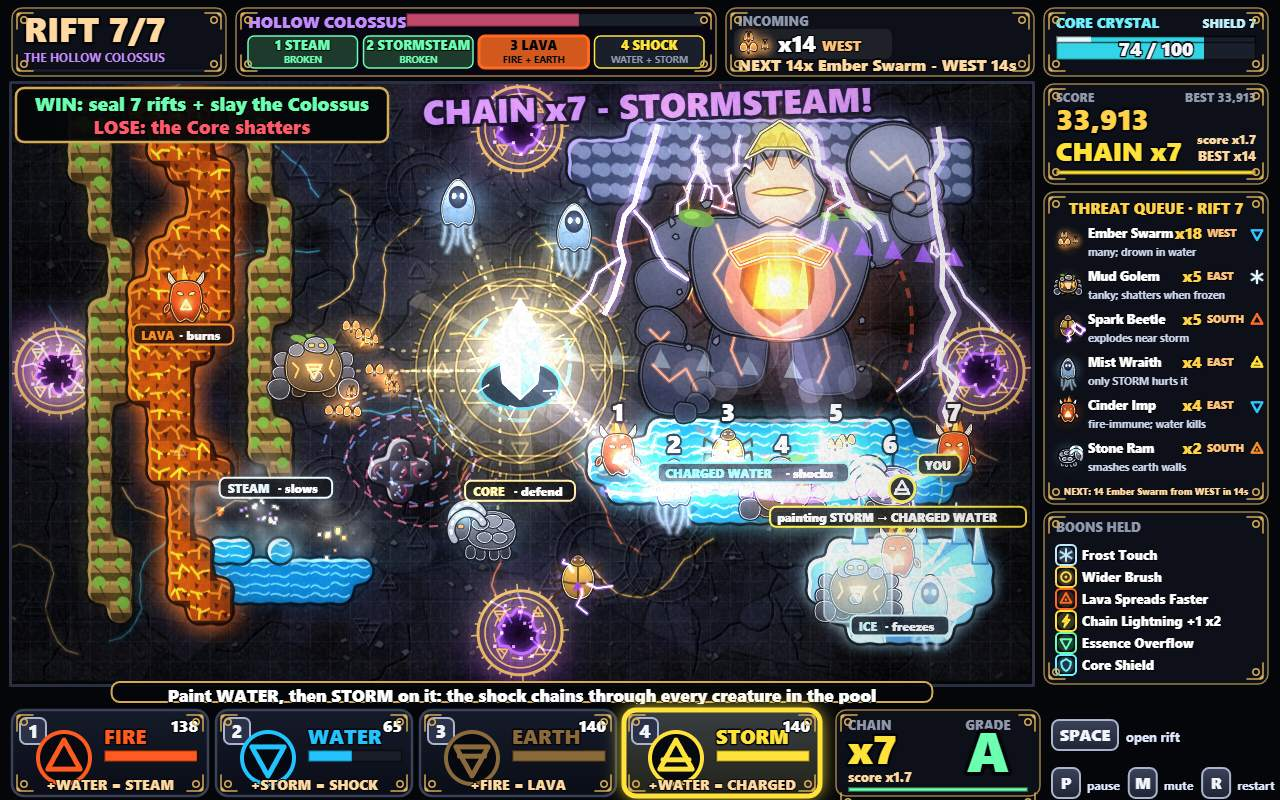
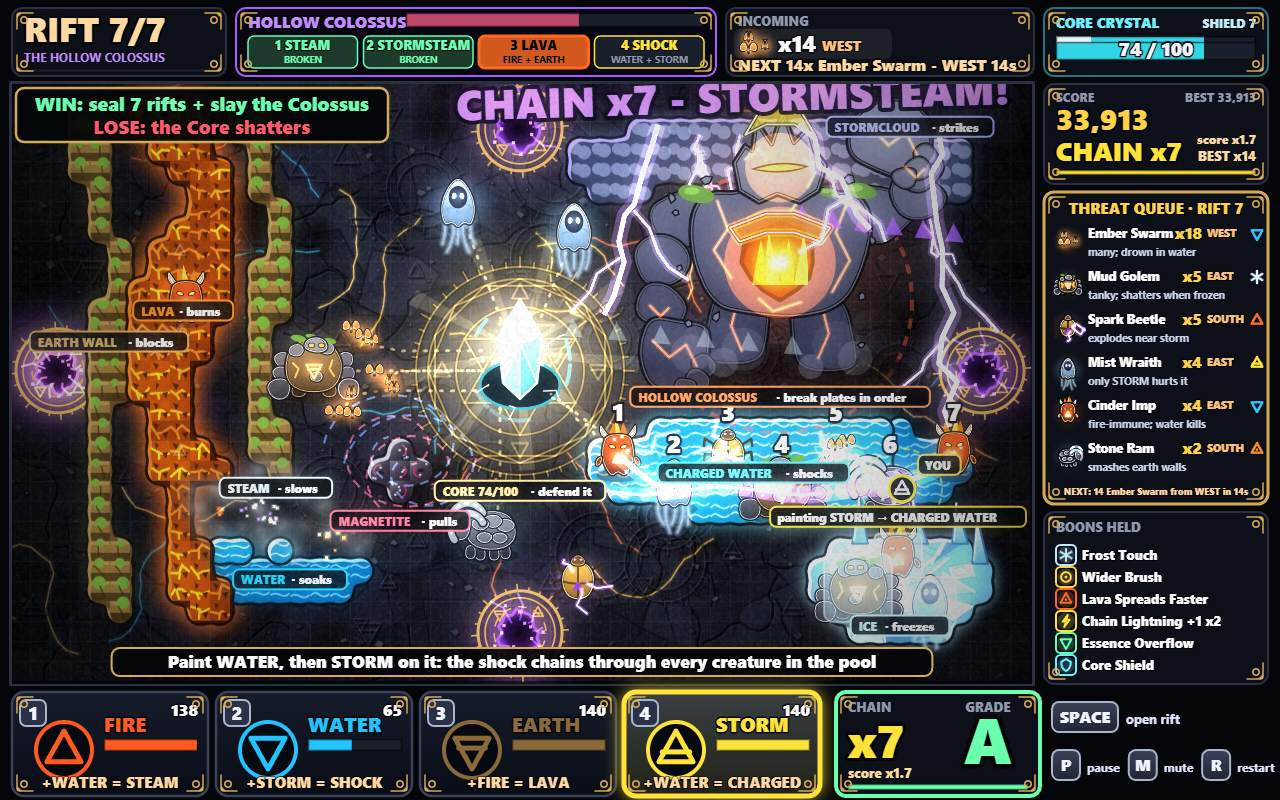
Restore the b26af8e cover and game files

diff --git a/game/src/hud.js b/game/src/hud.js
@@ -10,8 +10,7 @@ import { BOONS } from './boons.js';
 import { chainMult, reactionGrade } from './score.js';
 import { RIFT_PLANS, incomingSummary, upcoming } from './rifts.js';
 import { NODE_TYPES } from './path.js';
-import { drawBar, drawPanel as basePanel, drawText, formatNumber } from './draw.js';
-/** Every HUD panel shares one thin muted-gold border. */const drawPanel = (ctx, x, y, w, h, o = {}) => basePanel(ctx, x, y, w, h, { ...o, edge: '#9a8048', lineWidth: 1.5 });
+import { drawBar, drawPanel, drawText, formatNumber } from './draw.js';
 import { isMuted } from './audio.js';
 import { GLYPH_COLORS, drawFiligree, drawGlyph, drawGlyphTile } from './glyphs.js';
 
@@ -24,8 +23,8 @@ export const PANEL_W = 224;
 const MID_X = 236;
 const MID_W = PANEL_X - 10 - MID_X;
 /** Clickable brush cards, so the mouse can pick a brush as well as keys 1-4. */
-const BAR_Y = 710;
-export const BRUSH_CARDS = BRUSHES.map((_, i) => ({ x: 12 + i * 204, y: BAR_Y, w: 196, h: 86 }));
+const BAR_Y = 692;
+export const BRUSH_CARDS = BRUSHES.map((_, i) => ({ x: 12 + i * 204, y: BAR_Y, w: 196, h: 104 }));
 
 /** Two-word reaction hints, one per element slot. */
 const BRUSH_HINTS = ['+WATER = STEAM', '+STORM = SHOCK', '+FIRE = LAVA', '+WATER = CHARGED'];
@@ -159,17 +158,17 @@ function drawBrushSlots(ctx, game, time) {
     ctx.stroke();
     drawText(ctx, String(i + 1), c.x + 21, c.y + 28, { size: 18, align: 'center', outline: 0 });
     ctx.beginPath();
-    ctx.arc(c.x + 52, c.y + 48, 26, 0, 6.283);
+    ctx.arc(c.x + 52, c.y + 58, 28, 0, 6.283);
     ctx.fillStyle = '#070910';
     ctx.fill();
     ctx.lineWidth = 4;
     ctx.strokeStyle = el.color;
     ctx.stroke();
-    drawGlyph(ctx, BRUSH_GLYPHS[i], c.x + 52, c.y + 48, 18, el.color, 5);
-    drawText(ctx, el.name, c.x + 92, c.y + 34, { size: 20, color: el.color });
-    drawText(ctx, String(Math.floor(game.essence[i])), c.x + c.w - 10, c.y + 22, { size: 16, align: 'right', color: '#ffffff' });
-    drawBar(ctx, c.x + 92, c.y + 40, c.w - 102, 12, game.essence[i] / game.mods.essenceMax, empty && Math.floor(time * 12) % 2 === 0 ? P.danger : el.color);
-    drawText(ctx, BRUSH_HINTS[i], c.x + c.w / 2, c.y + 80, { size: 14, color: '#ffd9a0', align: 'center', weight: 800, outline: 2 });
+    drawGlyph(ctx, BRUSH_GLYPHS[i], c.x + 52, c.y + 58, 19, el.color, 5);
+    drawText(ctx, el.name, c.x + 92, c.y + 40, { size: 20, color: el.color });
+    drawText(ctx, String(Math.floor(game.essence[i])), c.x + c.w - 10, c.y + 24, { size: 16, align: 'right', color: '#ffffff' });
+    drawBar(ctx, c.x + 92, c.y + 47, c.w - 102, 12, game.essence[i] / game.mods.essenceMax, empty && Math.floor(time * 12) % 2 === 0 ? P.danger : el.color);
+    drawText(ctx, BRUSH_HINTS[i], c.x + c.w / 2, c.y + 96, { size: 15, color: '#ffd9a0', align: 'center', weight: 800, outline: 2 });
   });
 }
 
@@ -180,13 +179,13 @@ function drawComboBadge(ctx, game) {
   const count = game.chain.count;
   const grade = count >= 2 ? reactionGrade(count) : null;
   const color = grade ? GRADE_COLORS[grade] : P.muted;
-  drawPanel(ctx, x, BAR_Y, w, 86, { edge: grade ? color : P.panelEdge, lineWidth: grade ? 4 : 2 });
+  drawPanel(ctx, x, BAR_Y, w, 104, { edge: grade ? color : P.panelEdge, lineWidth: grade ? 4 : 2 });
   drawText(ctx, 'CHAIN', x + 12, BAR_Y + 20, { size: 13, color: P.muted, outline: 0 });
-  drawText(ctx, count > 0 ? `x${count}` : '-', x + 12, BAR_Y + 54, { size: 40, color: count >= 5 ? '#ffe23a' : count > 0 ? '#ffffff' : P.muted });
+  drawText(ctx, count > 0 ? `x${count}` : '-', x + 12, BAR_Y + 66, { size: 46, color: count >= 5 ? '#ffe23a' : count > 0 ? '#ffffff' : P.muted });
   drawText(ctx, 'GRADE', x + w - 52, BAR_Y + 20, { size: 13, color: P.muted, align: 'center', outline: 0 });
-  drawText(ctx, grade ?? '-', x + w - 52, BAR_Y + 62, { size: 56, color, align: 'center' });
-  drawText(ctx, count > 0 ? `score x${chainMult(count).toFixed(1)}` : 'no combo', x + 12, BAR_Y + 72, { size: 13, color: '#ffd9a0', outline: 0, weight: 800 });
-  if (count > 0) drawBar(ctx, x + 12, BAR_Y + 77, w - 24, 5, game.chain.timer / REACT.chainWindow, color);
+  drawText(ctx, grade ?? '-', x + w - 52, BAR_Y + 72, { size: 64, color, align: 'center' });
+  drawText(ctx, count > 0 ? `score x${chainMult(count).toFixed(1)}` : 'no combo', x + 12, BAR_Y + 86, { size: 13, color: '#ffd9a0', outline: 0, weight: 800 });
+  if (count > 0) drawBar(ctx, x + 12, BAR_Y + 92, w - 24, 6, game.chain.timer / REACT.chainWindow, color);
 }
 
 /** The bottom spell bar: element slots, chain badge and the compact control keys. */
@@ -289,9 +288,9 @@ function drawHowTo(ctx, game) {
   ctx.font = `800 ${size}px sans-serif`;
   const w = ctx.measureText(text).width + 34;
   const x = FIELD.x + (FIELD.w - w) / 2;
-  const y = BAR_Y - 28;
+  const y = FIELD.y + FIELD.h - 36;
   ctx.beginPath();
-  ctx.roundRect(x, y, w, 20, 8);
+  ctx.roundRect(x, y, w, 28, 8);
   ctx.fillStyle = 'rgba(4,5,8,0.92)';
   ctx.fill();
   ctx.lineWidth = 2;

diff --git a/game/src/shots.js b/game/src/shots.js
@@ -107,7 +107,7 @@ function stageCover(seed) {
   advance(game, bot, 40, (g) => g.boss !== null && g.rift.clock > 20, true);
   const boss = game.boss;
   const BOSS_X = 38.5;
-  const BOSS_Y = 12.2;
+  const BOSS_Y = 11;
   game.grid.type.fill(0);
   game.creatures = game.creatures.filter((c) => c === boss);
   // West: a smooth lava river between earth walls, steam where it meets a pond.
@@ -177,9 +177,9 @@ function stageCover(seed) {
   game.fx.bolts.length = 0;
   const callout = game.fx.texts.find((t) => t.text.startsWith('CHAIN'));
   if (callout) {
-    callout.x = 650;
-    callout.y = 112;
-    callout.size = 26;
+    callout.x = 735;
+    callout.y = 104;
+    callout.size = 32;
     callout.angle = -0.03;
     callout.life = callout.max = 3;
     callout.vy = 0;
@@ -204,8 +204,6 @@ function stageCover(seed) {
   game.cursor = { x: 44.6, y: 20.4, down: true, inField: true, lastX: 44.6, lastY: 20.4, trail: [] };
   for (let i = 0; i <= 15; i += 1) game.cursor.trail.push({ x: 29.8 + i * 0.99, y: 20.5 + Math.sin(i * 0.8) * 0.2, age: (15 - i) * 0.028, brush: 3 });
   game.showAllTags = true;
-  game.coverTags = [LAVA, CHARGED, ICE, STEAM];
-  game.focusLine = [[toScreenX(38.5), toScreenY(8)], [toScreenX(39), toScreenY(12.6)], [toScreenX(41), toScreenY(19.6)], [toScreenX(33), toScreenY(20.2)], [toScreenX(25.5), toScreenY(14.4)]];
   game.showHowTo = true;
   return { game, screen: 'play', bests: { score: 31500, chain: 14 }, time: game.t };
 }

diff --git a/game/src/render.js b/game/src/render.js
@@ -410,25 +410,9 @@ function drawBloomAndGrain(ctx) {
   ctx.globalAlpha = 1;
   const vignette = ctx.createRadialGradient(FIELD.x + FIELD.w / 2, FIELD.y + FIELD.h / 2, FIELD.h * 0.38, FIELD.x + FIELD.w / 2, FIELD.y + FIELD.h / 2, FIELD.w * 0.62);
   vignette.addColorStop(0, 'rgba(0,0,0,0)');
-  vignette.addColorStop(1, 'rgba(0,0,0,0.17)');
+  vignette.addColorStop(1, 'rgba(0,0,0,0.42)');
   ctx.fillStyle = vignette;
   ctx.fillRect(FIELD.x, FIELD.y, FIELD.w, FIELD.h);
-}
-
-/** A soft additive light along the focal diagonal (the cover): storm bolt to Colossus, chain across the pool, Core. */
-function drawFocus(ctx, pts) {
-  ctx.save();
-  ctx.globalCompositeOperation = 'lighter';
-  ctx.lineCap = 'round';
-  ctx.lineJoin = 'round';
-  for (const [w, a] of [[90, 0.07], [46, 0.09], [16, 0.1]]) {
-    ctx.lineWidth = w;
-    ctx.strokeStyle = `rgba(210,200,255,${a})`;
-    ctx.beginPath();
-    pts.forEach(([x, y], i) => (i ? ctx.lineTo(x, y) : ctx.moveTo(x, y)));
-    ctx.stroke();
-  }
-  ctx.restore();
 }
 
 /** Paint the whole battlefield for this frame (inside the FIELD rectangle, with screen shake). */
@@ -453,7 +437,6 @@ export function drawBattlefield(ctx, game, time) {
   drawCursor(ctx, game, time);
   drawTexts(ctx, game.fx);
   drawLabels(ctx, game);
-  if (game.focusLine) drawFocus(ctx, game.focusLine);
   drawBloomAndGrain(ctx);
   ctx.restore();
   if (game.fx.flash > 0) {

diff --git a/game/src/labels.js b/game/src/labels.js
@@ -101,13 +101,12 @@ export function drawLabels(ctx, game) {
   placed.length = 0;
   // The boss and the Core first, so the area tags make way for them.
   const boss = game.boss;
-  if (boss && !game.coverTags) chip(ctx, toScreenX(boss.x), toScreenY(boss.y) + 96, 'HOLLOW COLOSSUS', 'break plates in order', '#ff9a5a');
+  if (boss) chip(ctx, toScreenX(boss.x), toScreenY(boss.y) + 96, 'HOLLOW COLOSSUS', 'break plates in order', '#ff9a5a');
   const coreX = CORE.col + 0.5;
   const coreY = CORE.row + 0.5;
   const nearCore = hover && Math.hypot(hover.x - coreX, hover.y - coreY) < 4;
-  if (game.showAllTags || game.t < 10 || nearCore) chip(ctx, toScreenX(coreX), toScreenY(coreY) + 120, 'CORE', 'defend', '#ffe3a0');
+  if (game.showAllTags || game.t < 10 || nearCore) chip(ctx, toScreenX(coreX), toScreenY(coreY) + 120, `CORE ${Math.ceil(game.core.hp)}/100`, 'defend it', '#ffe3a0');
   for (const area of areas(game)) {
-    if (game.coverTags && !game.coverTags.includes(area.type)) continue;
     first[area.type] ??= game.t;
     const fresh = game.t - first[area.type] < 4.5;
     const hovered = hover && hover.x >= area.minCol - 1.5 && hover.x <= area.maxCol + 2.5 && hover.y >= area.minRow - 1.5 && hover.y <= area.maxRow + 2.5;
